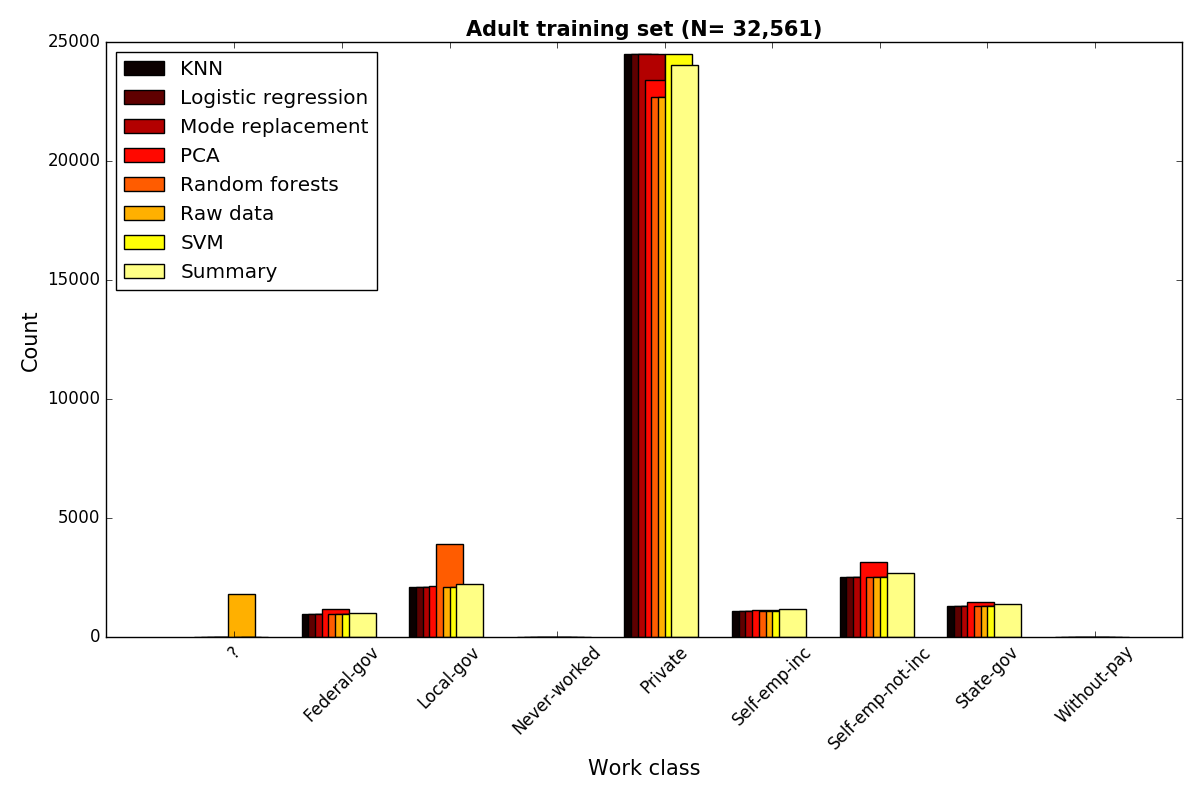
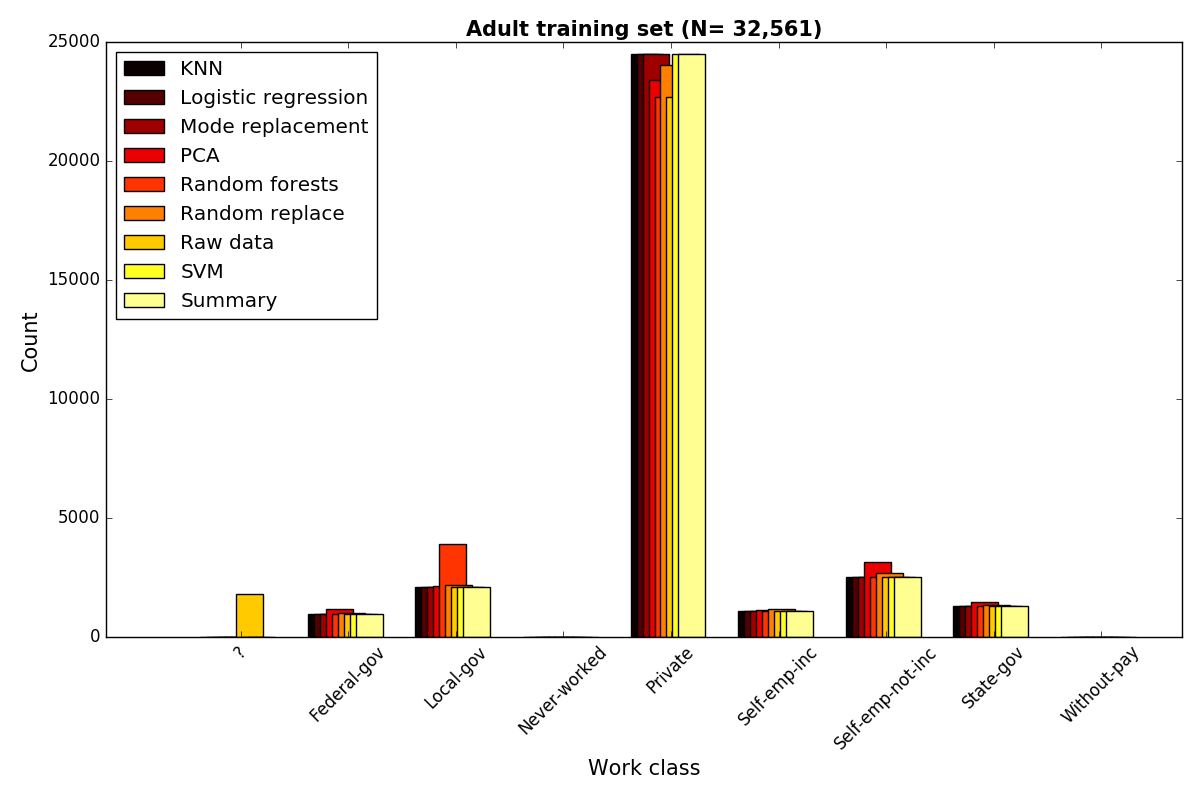
fix examples

diff --git a/example_adult.py b/example_adult.py
@@ -80,11 +80,12 @@ labels = np.unique(x[:,1])
 freq_data = {}
 freq_data['Raw data'] = compute_histogram(x[:,1], labels)
 # freq_data['Drop missing'] = compute_histogram(data_drop[:,1], labels)
+freq_data['Random replace'] = compute_histogram(data_replace[:,1], labels)
 freq_data['Mode replacement'] = compute_histogram(data_mode[:,1], labels)
-freq_data['Summary'] = compute_histogram(data_replace[:,1], labels)
+freq_data['Summary'] = compute_histogram(data_mode[:,1], labels)
 freq_data['Random forests'] = compute_histogram(data_rf[:,1], labels)
 freq_data['SVM'] = compute_histogram(data_svm[:,1], labels)
-freq_data['Logistic regression'] = compute_histogram(data_svm[:,1], labels)
+freq_data['Logistic regression'] = compute_histogram(data_logistic[:,1], labels)
 freq_data['PCA'] = compute_histogram(data_facanal[:,1], labels)
 freq_data['KNN'] = compute_histogram(data_knn[:,1], labels)
 

diff --git a/example_votes.py b/example_votes.py
@@ -77,11 +77,12 @@ labels = np.unique(x[:,1])
 freq_data = {}
 freq_data['Raw data'] = compute_histogram(x[:,1], labels)
 # freq_data['Drop missing'] = compute_histogram(data_drop[:,1], labels)
+freq_data['Random replace'] = compute_histogram(data_replace[:,1], labels)
 freq_data['Mode replacement'] = compute_histogram(data_mode[:,1], labels)
-freq_data['Summary'] = compute_histogram(data_replace[:,1], labels)
+freq_data['Summary'] = compute_histogram(data_mode[:,1], labels)
 freq_data['Random forests'] = compute_histogram(data_rf[:,1], labels)
 freq_data['SVM'] = compute_histogram(data_svm[:,1], labels)
-freq_data['Logistic regression'] = compute_histogram(data_svm[:,1], labels)
+freq_data['Logistic regression'] = compute_histogram(data_logistic[:,1], labels)
 freq_data['PCA'] = compute_histogram(data_facanal[:,1], labels)
 freq_data['KNN'] = compute_histogram(data_knn[:,1], labels)
 
